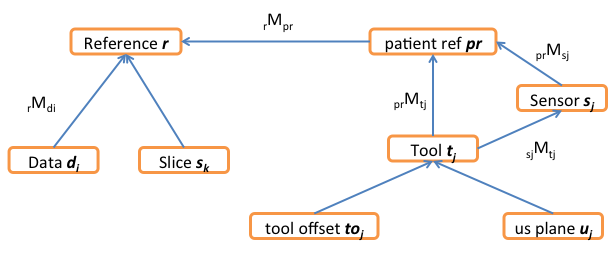
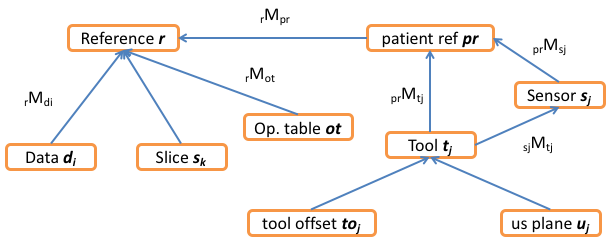
MG-47: Updated the documentation on the operating table. Refactored the struct slightly.

diff --git a/source/gui/preferencesWidgets/cxOperatingTableWidget.cpp b/source/gui/preferencesWidgets/cxOperatingTableWidget.cpp
@@ -20,7 +20,7 @@ OperatingTableWidget::OperatingTableWidget(CoreServicesPtr services, QWidget* pa
 
 	mVerticalLayout->setMargin(0);
 
-	mVerticalLayout->addWidget(new QLabel("Define the operating table up:"));
+	mVerticalLayout->addWidget(new QLabel("Define the operating table up direction. See the preferences help page for more information."));
 
 	QHBoxLayout* buttonLayout = new QHBoxLayout;
 	mVerticalLayout->addLayout(buttonLayout);
@@ -41,7 +41,7 @@ OperatingTableWidget::OperatingTableWidget(CoreServicesPtr services, QWidget* pa
 	connect(definePatientSuperiorUpButton, &QPushButton::clicked, this, &OperatingTableWidget::onDefinePatientSuperiorUp);
 	buttonLayout->addWidget(definePatientSuperiorUpButton);
 
-	mLabel = new QLabel("Table matrix");
+	mLabel = new QLabel("Table transformation matrix, rMot:");
 	mVerticalLayout->addWidget(mLabel);
 	mMatrixWidget = new Transform3DWidget(this);
 	mVerticalLayout->addWidget(mMatrixWidget);
@@ -72,8 +72,7 @@ void OperatingTableWidget::backendChanged()
 	mMatrixWidget->blockSignals(true);
 
 	OperatingTable table = mServices->patient()->getOperatingTable();
-//	std::cout << "table " << table.rMtb << std::endl;
-	mMatrixWidget->setMatrix(table.rMtb);
+	mMatrixWidget->setMatrix(table.rMot);
 	mTableUp->setValue(table.getVectorUp());
 
 	mMatrixWidget->blockSignals(false);
@@ -86,7 +85,7 @@ void OperatingTableWidget::backendChanged()
 void OperatingTableWidget::matrixWidgetChanged()
 {
 	OperatingTable table = mServices->patient()->getOperatingTable();
-	table.rMtb = mMatrixWidget->getMatrix();
+	table.rMot = mMatrixWidget->getMatrix();
 	mServices->patient()->setOperatingTable(table);
 }
 
@@ -115,7 +114,7 @@ void OperatingTableWidget::setNewUp(Vector3D newUp)
 	OperatingTable table = mServices->patient()->getOperatingTable();
 
 	Transform3D R = createTransformRotationBetweenVectors(table.getVectorUp(), newUp);
-	table.rMtb = R * table.rMtb;
+	table.rMot = R * table.rMot;
 
 	mServices->patient()->setOperatingTable(table);
 }

diff --git a/source/resource/core/patientModel/cxPatientModelService.h b/source/resource/core/patientModel/cxPatientModelService.h
@@ -67,21 +67,22 @@ typedef boost::shared_ptr<class RegistrationHistory> RegistrationHistoryPtr;
 /**
  * @brief The OperatingTable class
  *
- * The OT class holds a transform and is a coordinate system fixed relative to the OR.
- * Can be used to find up and down vectors.
- * Definition is like Dicom given that the patient lies on the back on the table, LPS.
+ * The OperatingTable holds a transform and is a coordinate system fixed relative to the reference, R.
+ * The definition is like Dicom, given that the patient lies on the back on the table, Left - Posterior - Superior.
+ * This is like the default R.
+ * The OT up direction can be changed in the preferences, and other objects can use it to find up and down vectors as needed.
  */
 struct cxResource_EXPORT OperatingTable
 {
     explicit OperatingTable()
-        : rMtb(Transform3D::Identity())
+		: rMot(Transform3D::Identity())
     {}
     explicit OperatingTable(Transform3D tr)
-        : rMtb(tr)
+		: rMot(tr)
     {}
-    Transform3D rMtb; ///< Transform from OT to reference space.
+	Transform3D rMot; ///< Transform from OT to reference space.
 
-	Vector3D getVectorUp() const {return rMtb.vector(Vector3D(0,-1,0));}
+	Vector3D getVectorUp() const {return rMot.vector(Vector3D(0,-1,0));} ///< Returns the table's up vector in R space.
 };
 
 

diff --git a/source/plugins/org.custusx.core.patientmodel/testing/cxtestCatchPatientService.cpp b/source/plugins/org.custusx.core.patientmodel/testing/cxtestCatchPatientService.cpp
@@ -140,9 +140,9 @@ TEST_CASE("Operating table set and get", "[unit][org.custusx.core.patientmodel]"
     cx::OperatingTable ot(cx::createTransformIJC(cx::Vector3D(0,1,0),
                                              cx::Vector3D(0,0,1),
                                              cx::Vector3D(3,4,5)));
-    CHECK(!cx::similar(ot.rMtb, patientModelService->getOperatingTable().rMtb));
+	CHECK(!cx::similar(ot.rMot, patientModelService->getOperatingTable().rMot));
     patientModelService->setOperatingTable(ot);
-    CHECK(cx::similar(ot.rMtb, patientModelService->getOperatingTable().rMtb));
+	CHECK(cx::similar(ot.rMot, patientModelService->getOperatingTable().rMot));
 
     CHECK(otChangedSignal.isReceived());
 }

diff --git a/source/plugins/org.custusx.core.patientmodel/cxDataManagerImpl.cpp b/source/plugins/org.custusx.core.patientmodel/cxDataManagerImpl.cpp
@@ -336,7 +336,7 @@ void DataManagerImpl::addXml(QDomNode& parentNode)
 	dataManagerNode.appendChild(centerNode);
 
     QDomElement otNode = doc.createElement("operatingTable");
-    otNode.appendChild(doc.createTextNode(qstring_cast(mOperatingTable.rMtb)));
+	otNode.appendChild(doc.createTextNode(qstring_cast(mOperatingTable.rMot)));
     dataManagerNode.appendChild(otNode);
 
 	for (DataMap::const_iterator iter = mData.begin(); iter != mData.end(); ++iter)

diff --git a/source/gui/browser/cxViewGroupPropertiesWidget.cpp b/source/gui/browser/cxViewGroupPropertiesWidget.cpp
@@ -163,7 +163,7 @@ void ViewGroupPropertiesWidget::createCameraStyleProperties()
 	mCameraStyleProperties.push_back(notbehind);
 
 	mTableLock = BoolProperty::initialize("Table lock", "",
-										  "Table is always set down in the scene.",
+										  "The camera's up vector is aligned with the operating table's up vector.",
 										  true);
 	mCameraStyleProperties.push_back(mTableLock);
 

diff --git a/source/gui/doc/preferences.md b/source/gui/doc/preferences.md
@@ -58,11 +58,24 @@ Setup tool configuration for tracking
 \addindex preferences_operating_table_widget
 Operating table {#preferences_operating_table_widget}
 ===
-Here you can define the up vector of the operating table and the how the pasient is displayed in the 3D scene.
-This setting should be used together with *Table lock* in the active view group's camera settings, which are available from the *Browser* widget.
+Here you can define the up direction of the operating table. The operating table is a concept which other functionality can use to find up or down directions in the reference space.
+It should not be necessary to do any changes here unless you know you are using some of this functionality. See also \ref coordinate_systems.
 
-You can either use the predefined Anterior, Posterior and Superior buttons, or start the tracking and point in the direction towards the earth with the active tool.
-Press the *Tool dir is down* button and the software will set the up vector related to the angle of the patient.
+You can use the predefined Anterior, Posterior and Superior buttons, which will set the table up according to the Dicom coordinate system.
+You can also start the tracking and point in the direction towards the earth with the active tool.
+Press the *Tool direction is down* button and the software will set the up vector related to the angle the patient is lying in in the reference space.
+
+The table direction can be used together with *Table lock* in the active view group's camera settings, which are available from the *Browser* widget.
+The table lock setting aligns the camera's up vector with the table's up vector. This is helpful e.g. when using tool view and you don't want any rotation around the tool axis.
+The following figure shows an example of this. The coordinate system indicated is the reference system.
+The patient was lying in an angle of about 30 degrees up from a line parallel to the ground. A tool was used to point towards the ground
+and the corresponding up vector in the reference space was set as the table's up vector. Since the Table lock is on, the camera up is pointing along the table up and the table appears to be
+horizontal down in the scene.
+
+Another use for the table direction is in the *Custom* metric, which by default uses the table up direction to define its own up direction.
+
+\image html cx_operating_table.png "The operating table with the use of Tool direction is down and Table lock"
+
 
 
 \addindex preferences_debug_widget

diff --git a/doc/shared_manual/cx_dev_coordinate_systems.md b/doc/shared_manual/cx_dev_coordinate_systems.md
@@ -61,6 +61,7 @@ This figure shows all the major spaces in CustusX. They are described in the tab
 | us plane j         | u_j  | See \ref cx_us_probe_spaces.
 | sensor j           | s_j  | Tools usually have a tracking sensor attached that communicates with the tracking system. The local sensor space is denoted s. The transform sMt is the Tool calibration.
 | slice k            | s_k  | During slicing (for display in a 2D View) a space s is defined. The xy-plane of this space is the slice plane. It is defined with r as the parent space. (The s identifier is used for two different spaces, slice and sensor. This is unfortunate, but the two spaces are used in different contexts)
+| operating table    | ot   | The operating table is a concept which is representing an operating table with an up direction in the reference space. The table up direction can be set in the preferences. Different functionality can be set to depend on the table direction. See the \ref preferences_operating_table_widget for more details.
 
 
 The following table describes som important transforms, i.e. relations between two spaces:
@@ -72,6 +73,7 @@ The following table describes som important transforms, i.e. relations between t
 | Tool Calibration     |  sMt  | Applied on top of the raw tracking position in order to find the position and orientation of the tool. This transform is either set from the tool producer or determined though a calibration procedure.
 | Data Position        |  rMd  | Position of Data. Used throughout the system.
 | Tool Position        |  prMt | Position of Tool. Used throughout the system.
+| Operating table      |  rMot | The orientation of the operating table in the reference space.
 
 The following figure shows an example of two tools, one pointer and one probe. Both are related to the patient reference through the sMt transform.
 
